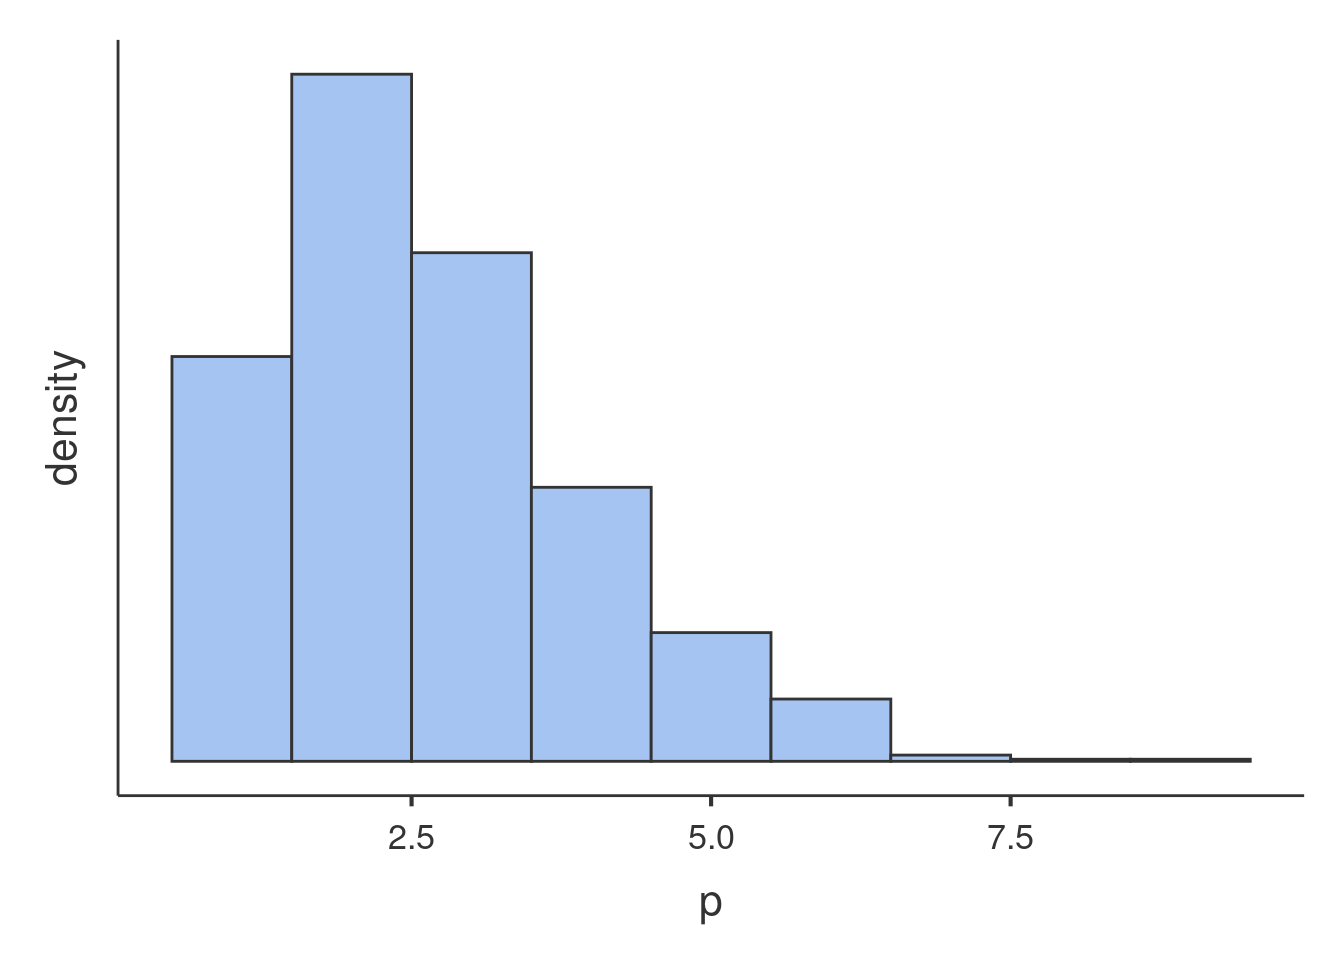
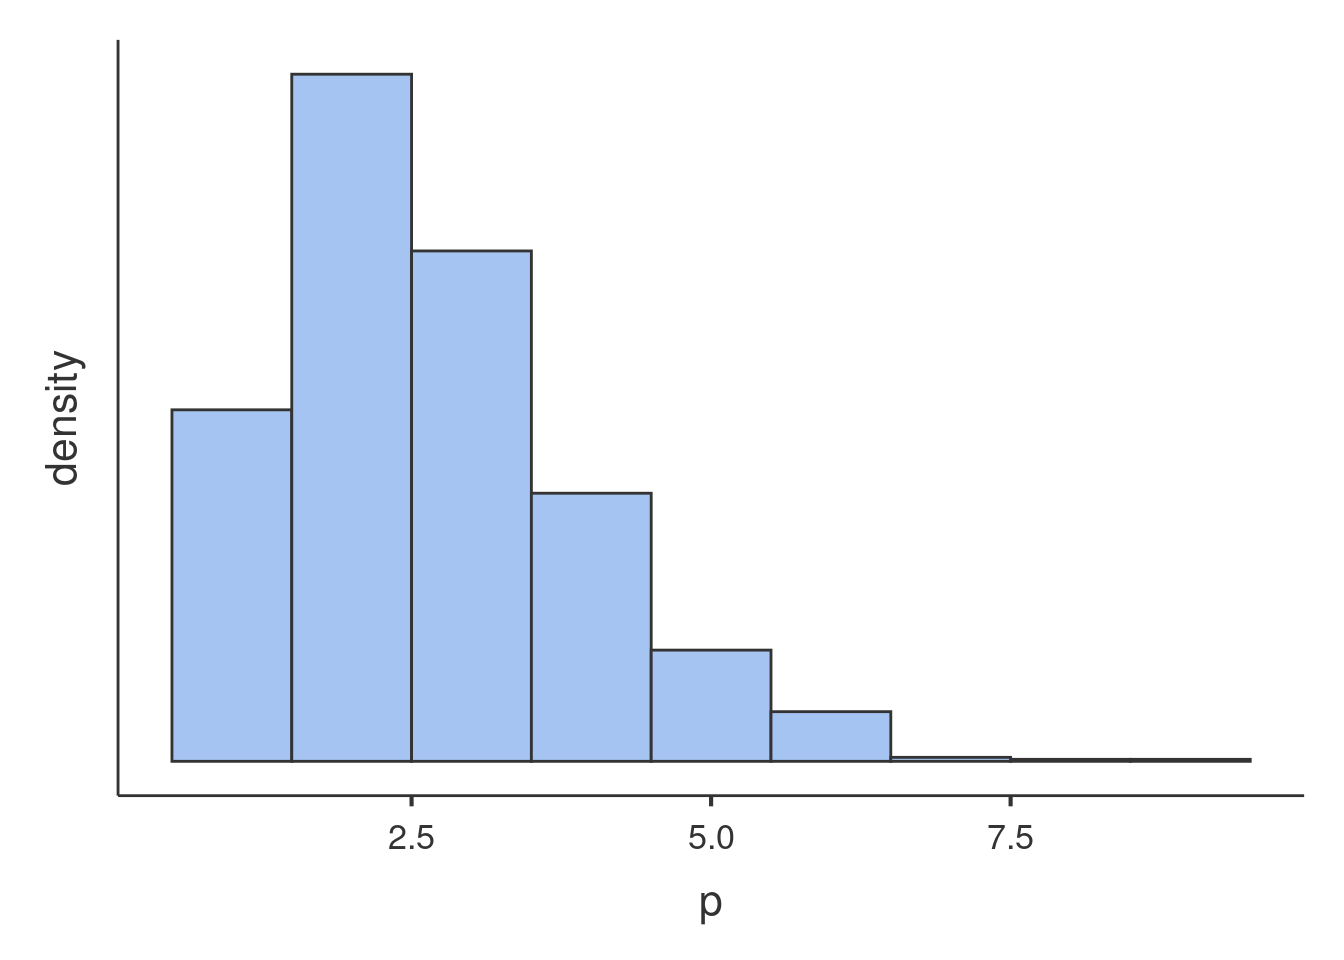
updates

diff --git a/docssource/glmmixed_example2.html b/docssource/glmmixed_example2.html
@@ -389,7 +389,7 @@ div.tocify {
 <p><img src="glmmixed_example2_files/figure-html/unnamed-chunk-2-1.png" width="672" /></p>
 <p>Glancing at the histogram makes it clear that the distribution is not normal, but it roughly resembles the Poisson distribution. Here is an example of Poisson distribution with equivalent mean.</p>
 <p><img src="glmmixed_example2_files/figure-html/unnamed-chunk-3-1.png" width="672" /></p>
-<p>We can see that the shape of our distribution is not qualitatively very different as compared with a theoretical Poisson distribution, so a Generalized Linear Model with Poisson distribition may work. However, we can check wheather our distribution is in line with the features of the Poisson dist by checking its mean and variance. The Poisson distribution has variance equal to the mean, in fact the simulated distribution in the histogram has <span class="math inline">\(\bar{x}=1.648\)</span> and <span class="math inline">\(s^2=1.748\)</span>. The <code>art</code> variable distribution has <span class="math inline">\(\bar{x}=1.693\)</span> and <span class="math inline">\(s^2=3.71\)</span>, with a ratio variance/mean of 2.191, which does not really qualify for Poisson dist. This looks like a case of <strong>overdispersion</strong>, <a href="http://bbolker.github.io/mixedmodels-misc/glmmFAQ.html#overdispersion">cf. here for details</a>. We will than consider a Negative Binomial model to account for possible overdispersion.</p>
+<p>We can see that the shape of our distribution is not qualitatively very different as compared with a theoretical Poisson distribution, so a Generalized Linear Model with Poisson distribition may work. However, we can check wheather our distribution is in line with the features of the Poisson dist by checking its mean and variance. The Poisson distribution has variance equal to the mean, in fact the simulated distribution in the histogram has <span class="math inline">\(\bar{x}=1.641\)</span> and <span class="math inline">\(s^2=1.604\)</span>. The <code>art</code> variable distribution has <span class="math inline">\(\bar{x}=1.693\)</span> and <span class="math inline">\(s^2=3.71\)</span>, with a ratio variance/mean of 2.191, which does not really qualify for Poisson dist. This looks like a case of <strong>overdispersion</strong>, <a href="http://bbolker.github.io/mixedmodels-misc/glmmFAQ.html#overdispersion">cf. here for details</a>. We will than consider a Negative Binomial model to account for possible overdispersion.</p>
 <p>An example of Negative Binomial distribution with equivalent mean and variance is here.</p>
 <p><img src="glmmixed_example2_files/figure-html/unnamed-chunk-4-1.png" width="672" /></p>
 <p>The second issue one needs to deal with is the structure of the data. We have seen that the students are not a random sample of students drawn independently one each other, but they are grouped by the program they are enrolled in. There are 83 programs, in each program there are on average 11 students. Because students in the same program may be more similar one each other than across programs, <code>programs</code> may cluster the scores of the dependent variable and create dependency in the data. To take dependency into the account, we will use a random intercepts model estimated with a Generalized Mixed Model.</p>
